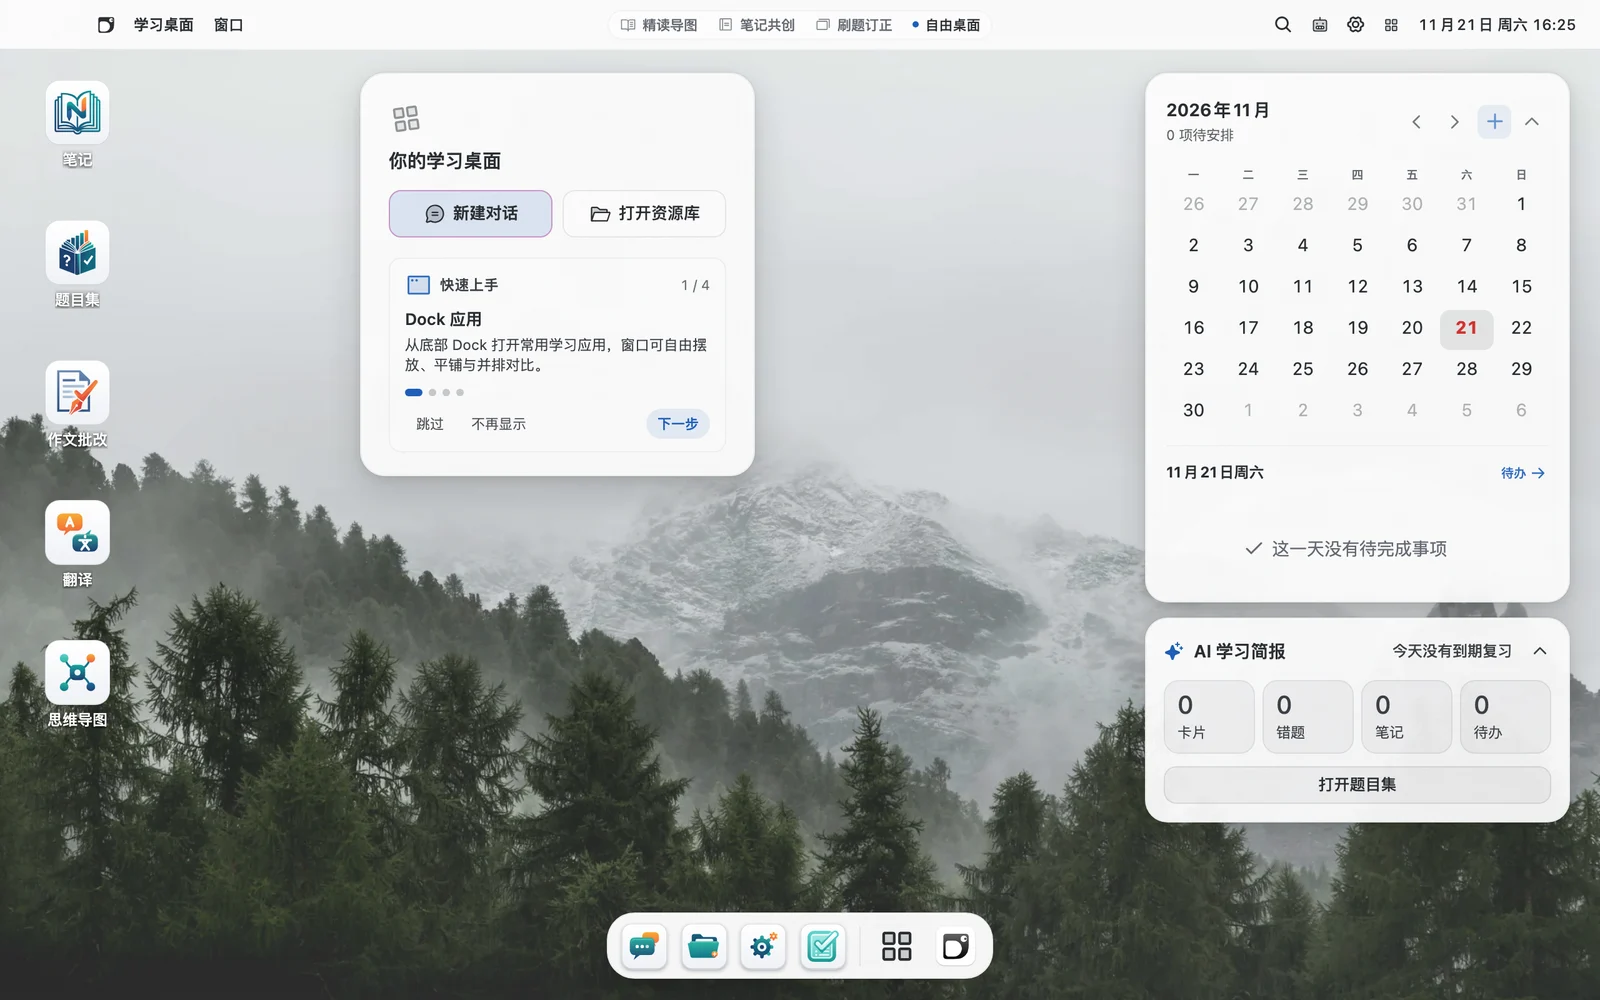
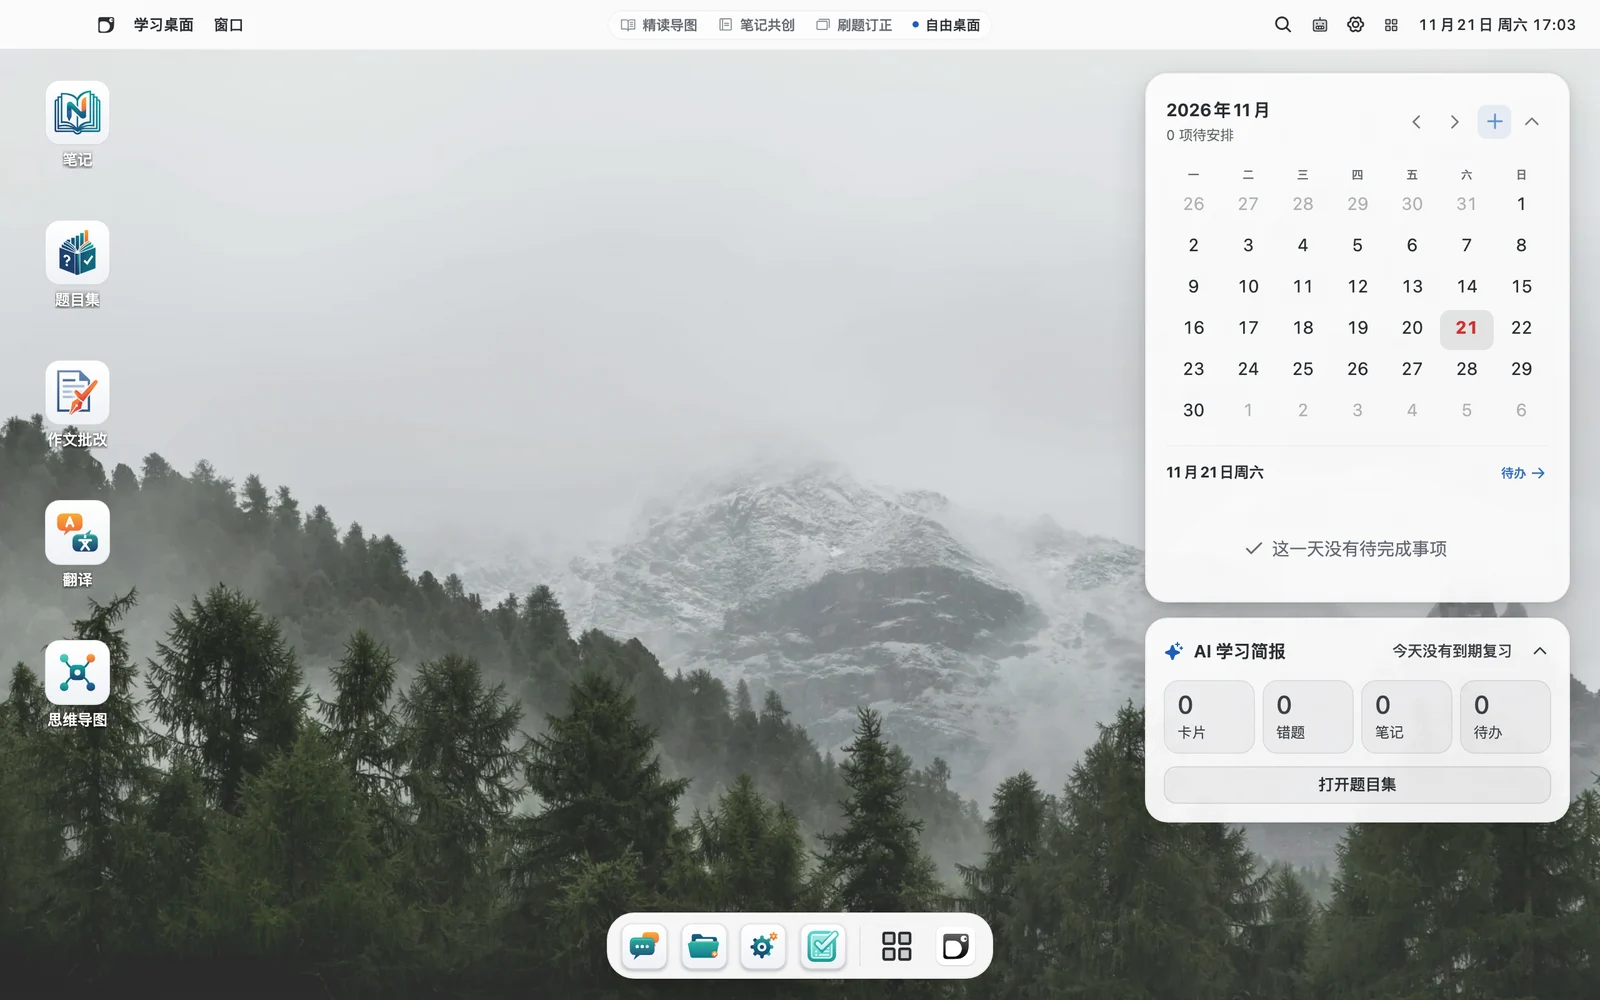
docs(user-guide): 更新移除空桌面引导卡片后的学习桌面文档与截图

Changed region(s): [[0.2188, 0.062, 0.5, 0.496]]

diff --git a/docs/user-guide/18-学习桌面.md b/docs/user-guide/18-学习桌面.md
@@ -41,7 +41,7 @@
 
 - **右侧双桌面组件**：桌面右侧默认展示 **`日程`** 与 **`AI 学习简报`** 两个桌面组件。两张卡片既可以在设置中分别开关，也可以在组件标题栏点击折叠，方便在窄屏时腾出工作区宽度。
 - **双击空白处显示桌面**：在桌面空白区域双击，可以快速触发「显示桌面」（最小化全部窗口 / 再操作恢复）。
-- **桌面右键菜单**：在桌面空白处右键，可直接执行「新建对话」「打开资源库」「全部应用…」「整理窗口（平铺全部窗口 / 窗口俯瞰）」「桌面壁纸（含管理壁纸…与自定义图片）」「视觉材质」切换、「显示桌面组件」开关、「显示桌面 / 恢复窗口」「键盘快捷键」「重新查看引导」以及「桌面设置…」。
+- **桌面右键菜单**：在桌面空白处右键，可直接执行「新建对话」「打开资源库」「全部应用…」「整理窗口（平铺全部窗口 / 窗口俯瞰）」「桌面壁纸（含管理壁纸…与自定义图片）」「视觉材质」切换、「显示桌面组件」开关、「显示桌面 / 恢复窗口」「键盘快捷键」以及「桌面设置…」。
 
 ### Dock
 
@@ -66,7 +66,7 @@
 
 ### 第一次打开与布局快照恢复
 
-- 桌面中间会显示「你的学习桌面」卡片，提供「新建对话」「打开资源库」「查看待办」「闪卡」「全部应用」等快速入口；首次使用会弹出四步引导，之后随时可在桌面右键菜单里「重新查看引导」。
+- 桌面上没有打开窗口时保持清爽壁纸，可通过底部 Dock、桌面快捷方式或右键菜单快速打开任意应用；存在可恢复的上次桌面快照时，顶部居中会显示轻量的「恢复上次桌面」胶囊。
 - **退出保存与启动恢复**：关闭应用时当前窗口状态会自动保存，下次启动时可在空桌面点击「恢复上次桌面（N 个窗口）」一键还原；若想每次启动自动恢复，到「设置 → 学习桌面」开启「启动时自动恢复上次桌面」（默认关闭以加快启动）。
 - **与学习空间联动的布局快照恢复**：在学习空间设置里绑定「学习桌面布局预设」后，切换学习空间时系统会自动保存前一个空间的窗口布局，并恢复目标空间的窗口布局快照（同时提示「已恢复空间桌面布局」），不同科目各有一套整洁的工作台。
 
